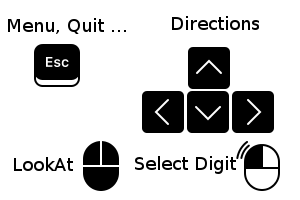
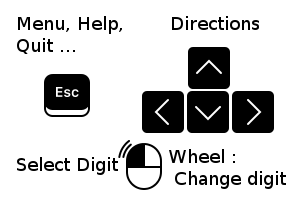
correction des GUI (ortho + images commandes) et de quelques affichages

Changed region(s): [[0.03, 0.69, 0.96, 0.96], [0.0, 0.09, 0.42, 0.6], [0.45, 0.93, 0.51, 0.96]]

diff --git a/JV/myWindows.cpp b/JV/myWindows.cpp
@@ -24,12 +24,14 @@ void myWindows::create_window_begin()
 {
     ig::IGUIWindow *window_begin = gui->addWindow(ic::rect<s32>(x1,y1, x2,y2), false, L"Welcome To Our World");
 
-    irr::gui::IGUIStaticText *texte =  gui->addStaticText(L"Vous n'auriez jamais du pénétrer notre monde. Vous en êtes maintenant le prisonnier. Laissez moi vous expliquer. Il y a bien longtemps, dans le temps du CPE antique"
-                                                          "une momie se retrouva prise au piège de cette ville qui de plus n'était pas très jolie, ayant perdu beaucoup de décorations sur les facades de ces batiments. "
+    irr::gui::IGUIStaticText *texte =  gui->addStaticText(L"Vous n'auriez jamais du pénétrer notre monde. Vous en êtes maintenant le prisonnier. Laissez moi vous expliquer. Il y a bien longtemps, dans le temps du CPE antique "
+                                                          "une momie se retrouva prise au piège de cette ville qui de plus n'était pas très jolie, ayant perdu beaucoup de décorations sur les facades de ses batiments. "
                                                           "Vous avez été appelé à l'aide pour aider MOMIE (et non pas MAMIE bien au chaud dans son canapé sous son plaid) à s'échapper. "
-                                                          "Pour cela il vous faudra résoudre les énigmes qui vous seront proposées par la suite. Chaque énigme vous ménéra à la salle suivante par le biais des nains téléporteurs. "
+                                                          "Pour cela, il vous faudra résoudre les énigmes qui vous seront proposées par la suite. Chaque énigme vous mènera à la salle suivante par le biais des nains téléporteurs. "
                                                           "Des informations spécifiques vous seront données ultérieurement. "
-                                                          "Pour démarrer, veuillez trouver le nain de jardin vous permettant de vous rendre à la salle de la première énigme ", ic::rect<s32>(10,50,x2-50,y2-200), false,true,window_begin);
+                                                          "Pour démarrer, veuillez trouver le nain de jardin vous permettant de vous rendre à la salle de la première énigme \n"
+                                                          "N'oubliez pas qu'à tout instant vous pouvez accéder aux informations d'aide : ESCAPE -> HELP "
+                                                          , ic::rect<s32>(10,50,x2-50,y2-200), false,true,window_begin);
 
     texte->setOverrideFont(font);                               // utilisation de la police
 
@@ -67,7 +69,7 @@ void myWindows::create_window_room_1()
                                                          "néanmoins il vous faudra résoudre son énigme pour pouvoir accéder à son contenu"
                                                          "\n"
                                                          "\n"
-                                                         "Vous disposez d'un indice pour le localiser : "
+                                                         "Vous disposez d'un indice pour le localiser : (oui c'est bien la photo de l'énorme coffre) "
                                                          , ic::rect<s32>(10,50,x2-50,y2-200), false,true,window);
 
     texte->setOverrideFont(font);                               // utilisation de la police
@@ -87,7 +89,7 @@ void myWindows::create_window_room_2()
     irr::gui::IGUIStaticText *texte = gui->addStaticText(L" Bienvenue dans le Club CPE Baila Baila Baila \n"
                                                          "Vous trouverez sur les murs de ce club, une combinaison de chiffres. Assurez vous de trouver "
                                                          "la bonne combinaison pour pouvoir dévérouiller votre nain de jardin de téléportation suivant \n"
-                                                         "Fonctionnement des Digits sur les murs : \n"
+                                                         "Fonctionnement des Digits sur les murs (Assurez vous de bien les comprendre, vous pouvez revenir ici à tout instant en utilisant ESCAPE->HELP: \n"
                                                          "    -Sélectionnez le digit souhaité à l'aide d'un clic gauche de la souris en pointant bien précisemment le digit voulu. \n "
                                                          "    -Modifiez sa valeur en utilisant la molette de votre souris.  ",
                                                          ic::rect<s32>(10,50,x2-50,y2-200), false,true,window);
@@ -109,10 +111,10 @@ void myWindows::create_window_enigm_1()
 
     irr::gui::IGUIStaticText *texte = gui->addStaticText(L"Pour ouvrir ce coffre vous devez trouver la date de naissance de ... Maxime Di Folco le Terrible (célèbre pour ses shots à 3 poissons)"
                                                          "Vous pouvez retourner sur l'ile ou faire des essais (illimités) de date. \n "
-                                                         "Voici quelques indices pour la trouver : \n "
+                                                         "Voici quelques indices pour trouver la date : \n "
                                                          " - son jour de naissance est le premier nombre premier à 2 chiffres \n"
-                                                         " -  l'été commence pendant son mois de naissance \n"
-                                                         " - il va avoir 23 ans cette année.",
+                                                         " - l'été commence pendant son mois de naissance \n"
+                                                         " - il va avoir 23 ans cette année 2018.",
 
                                                          ic::rect<s32>(10,50,x2-50,y2-200), false,true,window);
 
@@ -139,7 +141,7 @@ void myWindows::create_window_answer_enigm_1()
 {
     ig::IGUIWindow *window = gui->addWindow(ic::rect<s32>(x1,y1, x2,y2), false, L"Answer");
 
-    irr::gui::IGUIStaticText *texte = gui->addStaticText(L"Félicitation, vous avez déverouiller le coffre et ainsi dévérouillez l'accès à la prochaine salle qui vous proposera l'énigme suivante."
+    irr::gui::IGUIStaticText *texte = gui->addStaticText(L"Félicitation, vous avez déverouillé le coffre et ainsi dévérouillé l'accès à la prochaine salle qui vous proposera l'énigme suivante."
                                                          " Le Nain de jardin qui vous y emmenera se trouve non loin de vous, proche de votre lieu d'arrivée,\n"
                                                          "Bon Courage et à très vite",
                                                          ic::rect<s32>(10,50,x2-50,y2-200), false,true,window);
@@ -163,7 +165,7 @@ void myWindows::create_window_answer_enigm_2()
 
     ig::IGUIWindow *window = gui->addWindow(ic::rect<s32>(x1,y1, x2,y2), false, L"SUCCESS ROOM 2");
 
-    irr::gui::IGUIStaticText *texte = gui->addStaticText(L"Bravo ! Tu as réussi la deuxième enigme. Trouve le prochain téléporteur maintenant.",
+    irr::gui::IGUIStaticText *texte = gui->addStaticText(L"Bravo ! Tu as réussi la deuxième enigme. Trouve le prochain Nain Téléporteur maintenant.",
                                                          ic::rect<s32>(10,50,x2-50,y2-200), false,false,window);
 
     texte->setOverrideFont(font);
@@ -179,7 +181,7 @@ void myWindows::create_windows_back_room_0()
 
     ig::IGUIWindow *window = gui->addWindow(ic::rect<s32>(x1,y1, x2,y2), false, L"Retour dans la ville");
 
-    irr::gui::IGUIStaticText *texte = gui->addStaticText(L" De retour au point de départ ? Non, pas du tout ! Une nouvelle arche est apparu et tu as besoin de l'a trouver pour t'en sortir."
+    irr::gui::IGUIStaticText *texte = gui->addStaticText(L" De retour au point de départ ? Non, pas du tout ! Un nouveau Nain Téléporteur est apparu et tu as besoin de la trouver pour t'en sortir."
                                                          "   Mais attention, elle est difficile à trouver !",
                                                          ic::rect<s32>(10,50,x2-50,y2-200), false,true,window);
     irr::gui::IGUIFont *font = gui->getFont("data/font_a/myfont.xml");  // chargement de la police
@@ -197,7 +199,7 @@ void myWindows::create_window_enigm_final()
 
     irr::gui::IGUIStaticText *texte = gui->addStaticText(L"Tu as réussi à atteindre la dernière enigme ! \n Mais pour échapper de ce monde magique tu vas devoir "
                                                          "utiliser toutes tes méninges.\n"
-                                                         "Quelle est le nombre suivant de cette suite logique  2, 10 ,12 ,17 ,18 ,19, ...? ",
+                                                         "Quelle est le nombre suivant de cette suite logique  2, dix ,12 ,17 ,18 ,19, ...? ",
                                                          ic::rect<s32>(10,50,x2-50,y2-200), false,false,window);
 
     texte->setOverrideFont(font);

diff --git a/JV/main.cpp b/JV/main.cpp
@@ -420,7 +420,8 @@ void update_scene(std::vector<is::IMeshSceneNode*> &nodes_decors,
 
             nodes_persos[0]->addAnimator(anim);
 
-            //Reset le personnage au centre du nouveau décor
+            //Reset le personnage au centre du nouveau décor sauf si collision avec arches de back 0 ??
+            //if(windows->get_last_displayed_window() != WINDOW_ENIGM_FINAL)
             nodes_persos[0]->setPosition(ic::vector3df(0.0f,0.0f,0.0f));
 
             switch(i)

diff --git a/JV/events.cpp b/JV/events.cpp
@@ -158,6 +158,7 @@ bool EventReceiver::gui_handler(const SEvent &event)
         {
             gui->clear();
             windows->active_windows(false);
+            node->setPosition(node->getPosition() + ic::vector3df(-50.0,0.0f,-50.0f));
             break;
         }
         if(id == TRY_BUTTON_FINAL)
